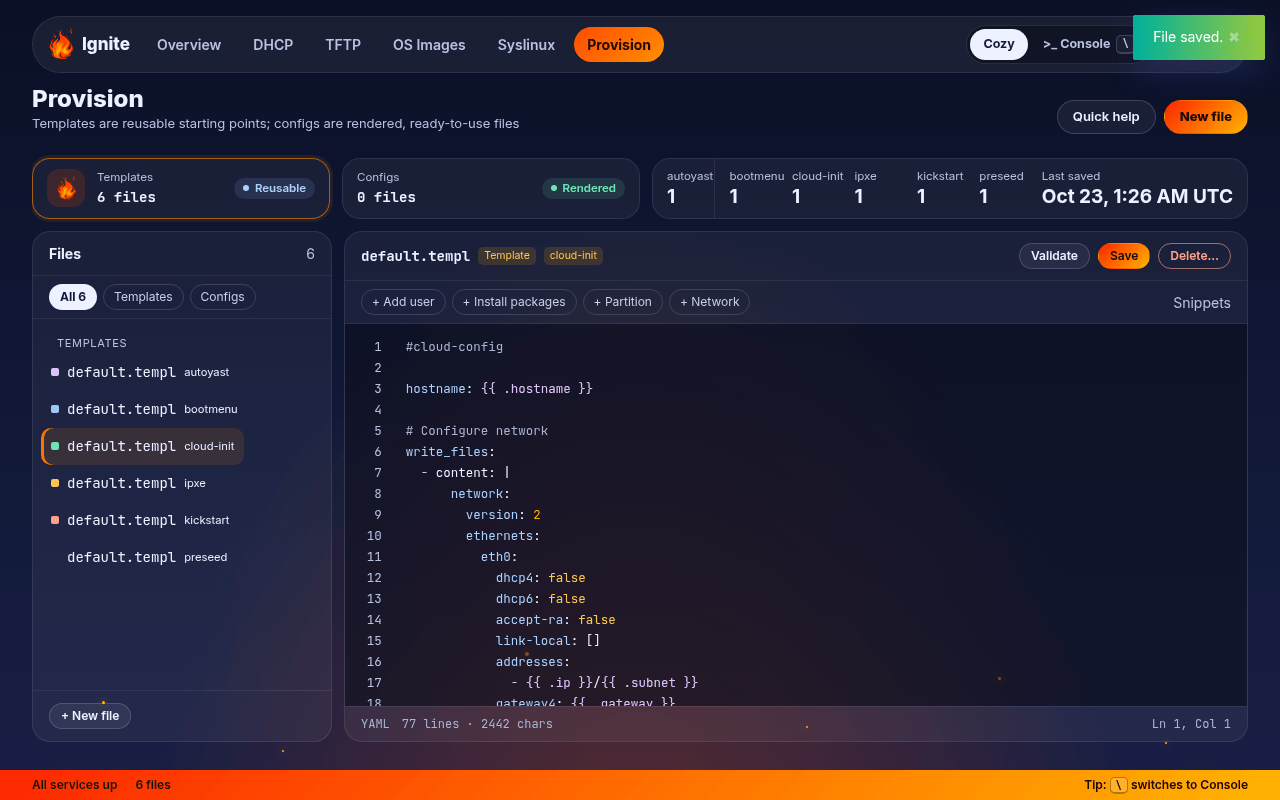
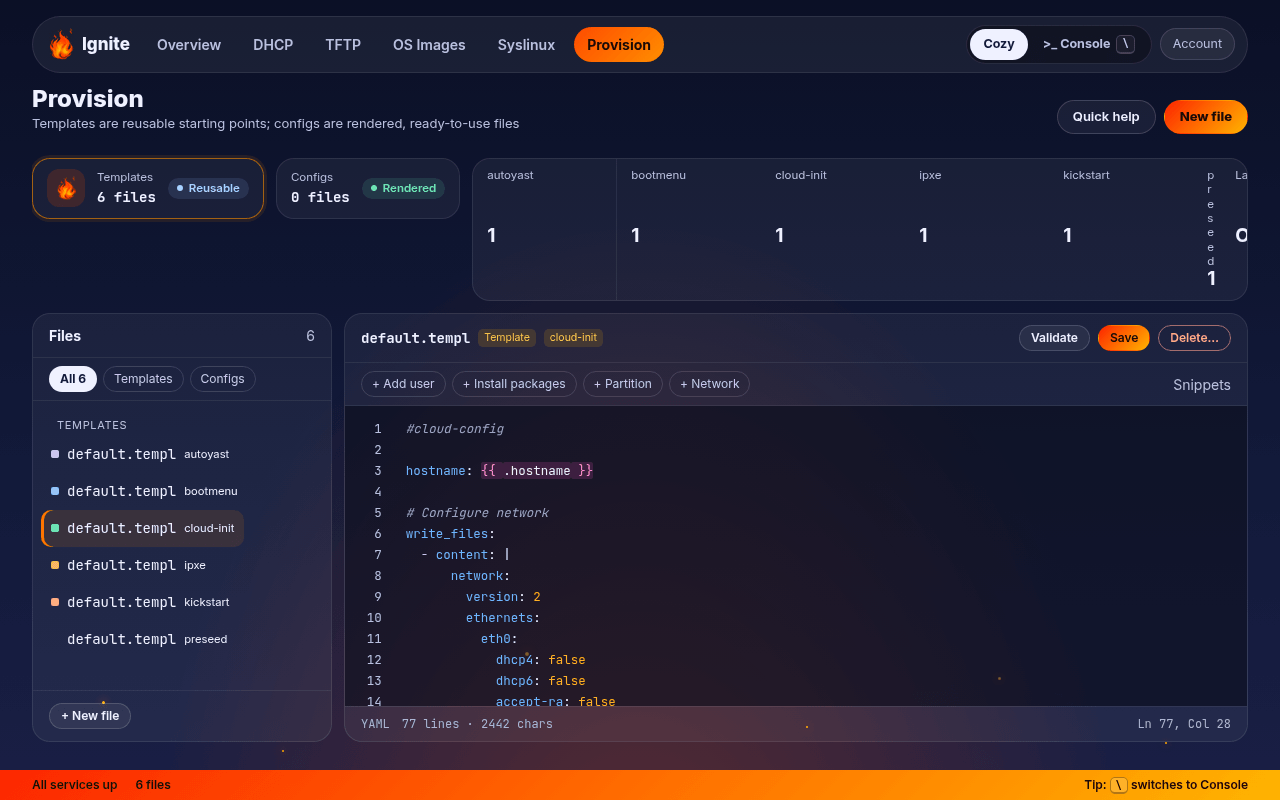
Make provision highlighting and the category strip readable.
Saturate each token class in the theme hues, italicize comments, and put Go template delimiters and fields on a magenta chip. Let the provision counts wrap so Console labels no longer collide.

diff --git a/public/http/js/editor.js b/public/http/js/editor.js
@@ -1,7 +1,7 @@
-"use strict";var igniteEditor=(()=>{var T=Object.defineProperty;var C=Object.getOwnPropertyDescriptor;var O=Object.getOwnPropertyNames;var P=Object.prototype.hasOwnProperty;var K=(e,t)=>{for(var s in t)T(e,s,{get:t[s],enumerable:!0})},H=(e,t,s,r)=>{if(t&&typeof t=="object"||typeof t=="function")for(let n of O(t))!P.call(e,n)&&n!==s&&T(e,n,{get:()=>t[n],enumerable:!(r=C(t,n))||r.enumerable});return e};var Z=e=>H(T({},"__esModule",{value:!0}),e);var ne={};K(ne,{detectLanguage:()=>b,indentText:()=>E,languageLabel:()=>y,renderTokens:()=>A,tokenize:()=>x});var I=/\{\{-?[\s\S]*?-?\}\}/g,B=[{source:"#[^\\n]*",flags:"y",cls:"tok-comment"},{source:`"(?:\\\\.|[^"\\\\\\n])*"|'(?:\\\\.|[^'\\\\\\n])*'`,flags:"y",cls:"tok-string"},{source:"^[ \\t]*[A-Za-z_][\\w.-]*(?=\\s*:)",flags:"ym",cls:"tok-key"},{source:"\\b(?:true|false|yes|no|null|on|off)\\b",flags:"y",cls:"tok-keyword"},{source:"(?<![\\w.])\\d+(?:\\.\\d+)?(?![\\w.])",flags:"y",cls:"tok-number"},{source:"^[ \\t]*-(?=\\s)",flags:"ym",cls:"tok-punct"}],$=[{source:"#[^\\n]*",flags:"y",cls:"tok-comment"},{source:`"(?:\\\\.|[^"\\\\\\n])*"|'(?:\\\\.|[^'\\\\\\n])*'`,flags:"y",cls:"tok-string"},{source:"^%(?:packages|post|pre|end|onerror|addon|anaconda)\\b[^\\n]*",flags:"ym",cls:"tok-section"},{source:"--[A-Za-z0-9-]+",flags:"y",cls:"tok-key"},{source:"\\b(?:auth|authconfig|autopart|bootloader|clearpart|cmdline|device|firewall|firstboot|graphical|group|halt|ignoredisk|install|keyboard|lang|logvol|network|part|poweroff|raid|reboot|repo|rootpw|selinux|services|shutdown|skipx|sshkey|text|timezone|upgrade|url|user|volgroup|xconfig|zerombr)\\b",flags:"y",cls:"tok-keyword"},{source:"(?<![\\w.])\\d+(?:\\.\\d+)?(?![\\w.])",flags:"y",cls:"tok-number"}],_=[{source:"\\$\\{[^}]+\\}|\\$[A-Za-z_]\\w*",flags:"y",cls:"tok-var"},{source:"^#!.*",flags:"ym",cls:"tok-keyword"},{source:"#[^\\n]*",flags:"y",cls:"tok-comment"},{source:`"(?:\\\\.|[^"\\\\\\n])*"|'(?:\\\\.|[^'\\\\\\n])*'`,flags:"y",cls:"tok-string"},{source:"\\b(?:case|cd|do|done|echo|elif|else|esac|exit|export|fi|for|function|if|local|read|return|set|source|then|trap|while)\\b",flags:"y",cls:"tok-keyword"},{source:"(?<![\\w.])\\d+(?:\\.\\d+)?(?![\\w.])",flags:"y",cls:"tok-number"}],j=[{source:"#[^\\n]*",flags:"y",cls:"tok-comment"},{source:`"(?:\\\\.|[^"\\\\\\n])*"|'(?:\\\\.|[^'\\\\\\n])*'`,flags:"y",cls:"tok-string"},{source:"\\bd-i\\b",flags:"y",cls:"tok-keyword"},{source:"\\b[a-z0-9]+(?:/[A-Za-z0-9_.-]+)+",flags:"y",cls:"tok-key"},{source:"\\b(?:string|boolean|select|multiselect|note|password|error)\\b",flags:"y",cls:"tok-key"},{source:"\\b(?:true|false)\\b",flags:"y",cls:"tok-keyword"},{source:"(?<![\\w.])\\d+(?:\\.\\d+)?(?![\\w.])",flags:"y",cls:"tok-number"}],U=[{source:"\\$\\{[^}]+\\}",flags:"y",cls:"tok-var"},{source:"^#!ipxe\\b",flags:"ym",cls:"tok-keyword"},{source:"#[^\\n]*",flags:"y",cls:"tok-comment"},{source:"^:[A-Za-z_][\\w-]*",flags:"ym",cls:"tok-section"},{source:`"(?:\\\\.|[^"\\\\\\n])*"|'(?:\\\\.|[^'\\\\\\n])*'`,flags:"y",cls:"tok-string"},{source:"\\b(?:boot|chain|choose|console|dhcp|echo|exit|goto|ifopen|imgfetch|imgfree|initrd|iseq|isset|item|kernel|menu|prompt|set|shell|show|sleep)\\b",flags:"y",cls:"tok-keyword"},{source:"(?<![\\w.])\\d+(?:\\.\\d+)?(?![\\w.])",flags:"y",cls:"tok-number"}],X=[{source:"#[^\\n]*",flags:"y",cls:"tok-comment"},{source:`"(?:\\\\.|[^"\\\\\\n])*"|'(?:\\\\.|[^'\\\\\\n])*'`,flags:"y",cls:"tok-string"},{source:"^[ \\t]*\\[[^\\]\\n]+\\]",flags:"ym",cls:"tok-section"},{source:"\\b(?:APPEND|DEFAULT|DISPLAY|IMPLICIT|INCLUDE|KERNEL|LABEL|LOCALBOOT|MENU|PROMPT|SAY|SERIAL|TIMEOUT|UI)\\b",flags:"yi",cls:"tok-keyword"},{source:"^[ \\t]*[A-Za-z_][\\w.-]*(?=\\s*=)",flags:"ym",cls:"tok-key"},{source:"(?<![\\w.])\\d+(?:\\.\\d+)?(?![\\w.])",flags:"y",cls:"tok-number"}],q=[{source:"<!--[\\s\\S]*?-->",flags:"y",cls:"tok-comment"},{source:"<!DOCTYPE\\b[^>]*>",flags:"yi",cls:"tok-keyword"},{source:"</?[A-Za-z_][\\w:.-]*",flags:"y",cls:"tok-tag"},{source:"/?\\s*>",flags:"y",cls:"tok-punct"},{source:"[A-Za-z_:][\\w:.-]*(?=\\s*=)",flags:"y",cls:"tok-key"},{source:`"(?:\\\\.|[^"\\\\])*"|'(?:\\\\.|[^'\\\\])*'`,flags:"y",cls:"tok-string"}],R={yaml:B,kickstart:$,shell:_,preseed:j,ipxe:U,pxe:X,xml:q,text:[]},N={yaml:"YAML",kickstart:"Kickstart",shell:"Shell",preseed:"Preseed",ipxe:"iPXE",pxe:"PXE",xml:"XML",text:"Text"};function y(e){return N[e]||N.text}function Y(e){return e.map(t=>({re:new RegExp(t.source,t.flags),cls:t.cls}))}var S={};for(let e of Object.keys(R))S[e]=Y(R[e]);function F(e){let t=[];I.lastIndex=0;let s;for(;(s=I.exec(e))&&s[0].length!==0;)t.push({start:s.index,end:s.index+s[0].length});return t}function V(e,t){if(!t.length)return e;let s="",r=0;for(let n of t)s+=e.slice(r,n.start),s+=" ".repeat(n.end-n.start),r=n.end;return s+e.slice(r)}function v(e,t){let s=S[t]||S.text,r=[],n=0;for(;n<e.length;){let a=null;for(let o of s){o.re.lastIndex=n;let l=o.re.exec(e);if(l&&l.index===n&&l[0].length>0){a={text:l[0],cls:o.cls};break}}if(!a){let o=r[r.length-1],l=e.charAt(n);o&&!o.cls?o.text+=l:r.push({text:l,cls:""}),n++;continue}r.push(a),n+=a.text.length}return r}function W(e){let t=[],s=!1,r=0;for(;r<e.length;){let n=e.indexOf(`
-`,r),a=n===-1?e.length:n+1,o=e.slice(r,a),l=o.endsWith(`
-`)?o.slice(0,-1):o,i=s?"shell":"kickstart";/^%end\b/.test(l)||/^%(?:packages|addon|anaconda)\b/.test(l)?(i="kickstart",s=!1):/^%(?:post|pre|onerror)\b/.test(l)&&(i="kickstart",s=!0);let u=t[t.length-1];u&&u.language===i?u.text+=o:t.push({language:i,text:o}),r=a}return t}function G(e,t){if(t!=="kickstart")return v(e,t);let s=[];for(let r of W(e))s.push(...v(r.text,r.language));return s}function J(e,t,s){let r=[],n=(o,l)=>{if(!o)return;let i=r[r.length-1];i&&i.cls===l?i.text+=o:r.push({text:o,cls:l})},a=0;for(let o of t){let l=0;for(;l<o.text.length;){let i=a+l,u=s.find(f=>i>=f.start&&i<f.end);if(u){n(e.slice(u.start,u.end),"tok-template"),l+=u.end-i;continue}let d=o.text.length;for(let f of s)f.start>i&&f.start<a+o.text.length&&(d=Math.min(d,f.start-a));n(e.slice(i,a+d),o.cls),l=d}a+=o.text.length}return r}function x(e,t){let s=String(e!=null?e:""),r=R[t]?t:"text",n=F(s),a=V(s,n);return J(s,G(a,r),n)}function Q(e){let t=e.split(/[\\/]/).pop()||"",s=t.lastIndexOf(".");return s>=0?t.slice(s).toLowerCase():""}function m(e,t){return t.some(s=>e.includes(s))}function L(e){return/^#version=RHEL/m.test(e)||/^%(?:packages|post|pre|end|onerror)\b/m.test(e)||/^(?:autopart|bootloader|clearpart|rootpw|part)\b/m.test(e)}function D(e){return/^(?:default|prompt|timeout|label|kernel|append|menu)\b/im.test(e)}function b(e="",t="",s="",r=""){let n=String(e||""),a=String(t||""),o=`${n} ${r}`.toLowerCase(),l=Q(n),i=String(s||"").toLowerCase();if(m(o,["cloud-init"]))return"yaml";if(m(o,["kickstart"]))return"kickstart";if(m(o,["preseed"]))return"preseed";if(m(o,["ipxe"]))return"ipxe";if(m(o,["autoyast","yast"]))return"xml";if(m(o,["bootmenu","pxelinux"]))return"pxe";if(l===".yaml"||l===".yml")return"yaml";if(l===".ks")return"kickstart";if(l===".ipxe")return"ipxe";if(l===".xml")return"xml";if(l===".sh"||l===".bash")return"shell";if(l===".cfg"||l===".conf")return D(a)&&!L(a)?"pxe":"kickstart";if(i==="yaml"||i==="yml")return"yaml";if(i==="kickstart"||i==="ks")return"kickstart";if(i==="preseed")return"preseed";if(i==="ipxe")return"ipxe";if(i==="shell"||i==="sh"||i==="bash")return"shell";if(i==="xml")return"xml";if(i==="pxe")return"pxe";let u=a.slice(0,800);return/^#!ipxe/m.test(u)?"ipxe":/^#cloud-config/m.test(u)?"yaml":L(u)?"kickstart":/^d-i\s/m.test(u)?"preseed":/^#!/.test(u)?"shell":/^\s*</.test(u)&&/<\/?[A-Za-z]/.test(u)?"xml":D(u)?"pxe":i==="ini"||i==="cfg"||i==="conf"?L(a)?"kickstart":"pxe":"text"}function ee(e){if(e.startsWith("  "))return{line:e.slice(2),removed:2};if(e.startsWith("	"))return{line:e.slice(1),removed:1};let t=/^ +/.exec(e);if(t){let s=Math.min(2,t[0].length);return{line:e.slice(s),removed:s}}return{line:e,removed:0}}function E(e,t,s,r){let n=Math.min(t,s),a=Math.max(t,s);if(!r&&n===a)return{value:e.slice(0,n)+"  "+e.slice(n),start:n+2,end:n+2};let o=e.lastIndexOf(`
-`,Math.max(0,n-1))+1,l=e.indexOf(`
-`,a),i=l===-1?e.length:l,u=e.slice(o,i).split(`
-`),d=o,f=n,h=u.map(c=>{let g=d;if(d+=c.length+1,!r)return g<=n&&(f+=2),"  "+c;let p=ee(c);return g<=n&&(f-=Math.min(p.removed,Math.max(0,n-g))),p.line}).join(`
-`),k=e.slice(0,o)+h+e.slice(i);if(n===a){let c=Math.max(o,Math.min(f,o+h.length));return{value:k,start:c,end:c}}return{value:k,start:o,end:o+h.length}}function A(e,t,s){let r=e.createDocumentFragment();for(let n of s){if(!n.cls){r.appendChild(e.createTextNode(n.text));continue}let a=e.createElement("span");a.className=n.cls,a.textContent=n.text,r.appendChild(a)}t.replaceChildren(r)}function te(e,t){let s=Object.getOwnPropertyDescriptor(HTMLTextAreaElement.prototype,"value");!s||!s.get||!s.set||Object.defineProperty(e,"value",{configurable:!0,enumerable:!0,get(){return s.get.call(this)},set(r){s.set.call(this,r),t()}})}function z(e){var k;if(!e)return;let t=e.getElementById("editor-textarea");if(!(t instanceof HTMLTextAreaElement)||t.dataset.editorMounted==="1")return;t.dataset.editorMounted="1";let s=t.parentElement;if(!s)return;let r=s.querySelector(".editor-highlight");r||(r=e.createElement("pre"),r.className="editor-highlight",r.setAttribute("aria-hidden","true"),r.appendChild(e.createElement("code")),s.insertBefore(r,t));let n=r.querySelector("code");if(!n)return;let a=e.getElementById("code-edit"),o=!1,l=0,i=()=>{n.style.transform=`translate(${-t.scrollLeft}px, ${-t.scrollTop}px)`},u=()=>{var M;let c=b(t.dataset.filename||"",t.value,t.dataset.language||"",t.dataset.category||"");A(e,n,x(t.value,c));let g=(M=e.defaultView)==null?void 0:M.getComputedStyle(t);g&&(n.style.width=`${t.clientWidth}px`,n.style.padding=g.padding,n.style.font=g.font,n.style.lineHeight=g.lineHeight,n.style.letterSpacing=g.letterSpacing,n.style.tabSize=g.tabSize),r.dataset.lang=c;let p=e.getElementById("editor-lang");p&&(p.textContent=t.value?y(c):""),i()},d=()=>{let c=e.defaultView;!c||l||(l=c.requestAnimationFrame(()=>{l=0,u()}))};te(t,u),t.addEventListener("input",d),t.addEventListener("ignite-editor-refresh",u),t.addEventListener("scroll",i),t.addEventListener("keydown",c=>{if(c.key==="Escape"){o=!0;return}if(c.key!=="Tab"){c.key!=="Shift"&&c.key!=="Control"&&c.key!=="Alt"&&c.key!=="Meta"&&(o=!1);return}if(o||c.altKey||c.metaKey||c.ctrlKey){o=!1;return}c.preventDefault();let g=E(t.value,t.selectionStart,t.selectionEnd,c.shiftKey);t.value=g.value,t.selectionStart=g.start,t.selectionEnd=g.end,t.dispatchEvent(new Event("input",{bubbles:!0}))});let f=e.defaultView;f==null||f.addEventListener("resize",d);let w=(k=e.fonts)==null?void 0:k.ready;w&&w.then(()=>u()).catch(()=>{}),e.querySelectorAll('link[rel="stylesheet"]').forEach(c=>{(c.getAttribute("href")||"").indexOf("editor.css")!==-1&&c.addEventListener("load",u)}),new MutationObserver(d).observe(e.documentElement,{attributes:!0,attributeFilter:["data-theme"]}),a==null||a.classList.add("hl-on"),u()}z(typeof document=="undefined"?void 0:document);return Z(ne);})();
+"use strict";var igniteEditor=(()=>{var T=Object.defineProperty;var C=Object.getOwnPropertyDescriptor;var O=Object.getOwnPropertyNames;var P=Object.prototype.hasOwnProperty;var K=(e,t)=>{for(var s in t)T(e,s,{get:t[s],enumerable:!0})},Z=(e,t,s,r)=>{if(t&&typeof t=="object"||typeof t=="function")for(let n of O(t))!P.call(e,n)&&n!==s&&T(e,n,{get:()=>t[n],enumerable:!(r=C(t,n))||r.enumerable});return e};var $=e=>Z(T({},"__esModule",{value:!0}),e);var se={};K(se,{detectLanguage:()=>b,indentText:()=>E,languageLabel:()=>y,renderTokens:()=>S,tokenize:()=>x});var v=/\{\{-?[\s\S]*?-?\}\}/g,H=[{source:"#[^\\n]*",flags:"y",cls:"tok-comment"},{source:`"(?:\\\\.|[^"\\\\\\n])*"|'(?:\\\\.|[^'\\\\\\n])*'`,flags:"y",cls:"tok-string"},{source:"(?<=(?:^|\\n)[ \\t]*(?:-[ \\t]+)?)[A-Za-z_][\\w.-]*(?=\\s*:)",flags:"ym",cls:"tok-key"},{source:"\\b(?:true|false|yes|no|null|on|off)\\b",flags:"y",cls:"tok-bool"},{source:"(?<![\\w.])\\d+(?:\\.\\d+)?(?![\\w.])",flags:"y",cls:"tok-number"},{source:"^[ \\t]*-(?=\\s)",flags:"ym",cls:"tok-punct"},{source:"(?<=-[ \\t]+)[^ \\t#\\n][^#\\n]*?(?=[ \\t]*(?:#|$))",flags:"ym",cls:"tok-string"},{source:"(?<=:[ \\t]*)[^ \\t#\\n|>][^#\\n]*?(?=[ \\t]*(?:#|$))",flags:"ym",cls:"tok-string"}],B=[{source:"#[^\\n]*",flags:"y",cls:"tok-comment"},{source:`"(?:\\\\.|[^"\\\\\\n])*"|'(?:\\\\.|[^'\\\\\\n])*'`,flags:"y",cls:"tok-string"},{source:"^%(?:packages|post|pre|end|onerror|addon|anaconda)\\b[^\\n]*",flags:"ym",cls:"tok-section"},{source:"--[A-Za-z0-9-]+",flags:"y",cls:"tok-key"},{source:"\\b(?:auth|authconfig|autopart|bootloader|clearpart|cmdline|device|firewall|firstboot|graphical|group|halt|ignoredisk|install|keyboard|lang|logvol|network|part|poweroff|raid|reboot|repo|rootpw|selinux|services|shutdown|skipx|sshkey|text|timezone|upgrade|url|user|volgroup|xconfig|zerombr)\\b",flags:"y",cls:"tok-keyword"},{source:"(?<![\\w.])\\d+(?:\\.\\d+)?(?![\\w.])",flags:"y",cls:"tok-number"}],_=[{source:"\\$\\{[^}]+\\}|\\$[A-Za-z_]\\w*",flags:"y",cls:"tok-var"},{source:"^#!.*",flags:"ym",cls:"tok-keyword"},{source:"#[^\\n]*",flags:"y",cls:"tok-comment"},{source:`"(?:\\\\.|[^"\\\\\\n])*"|'(?:\\\\.|[^'\\\\\\n])*'`,flags:"y",cls:"tok-string"},{source:"\\b(?:case|cd|do|done|echo|elif|else|esac|exit|export|fi|for|function|if|local|read|return|set|source|then|trap|while)\\b",flags:"y",cls:"tok-keyword"},{source:"(?<![\\w.])\\d+(?:\\.\\d+)?(?![\\w.])",flags:"y",cls:"tok-number"}],j=[{source:"#[^\\n]*",flags:"y",cls:"tok-comment"},{source:`"(?:\\\\.|[^"\\\\\\n])*"|'(?:\\\\.|[^'\\\\\\n])*'`,flags:"y",cls:"tok-string"},{source:"\\bd-i\\b",flags:"y",cls:"tok-keyword"},{source:"\\b[a-z0-9]+(?:/[A-Za-z0-9_.-]+)+",flags:"y",cls:"tok-key"},{source:"\\b(?:string|boolean|select|multiselect|note|password|error)\\b",flags:"y",cls:"tok-key"},{source:"\\b(?:true|false)\\b",flags:"y",cls:"tok-bool"},{source:"(?<![\\w.])\\d+(?:\\.\\d+)?(?![\\w.])",flags:"y",cls:"tok-number"}],U=[{source:"\\$\\{[^}]+\\}",flags:"y",cls:"tok-var"},{source:"^#!ipxe\\b",flags:"ym",cls:"tok-keyword"},{source:"#[^\\n]*",flags:"y",cls:"tok-comment"},{source:"^:[A-Za-z_][\\w-]*",flags:"ym",cls:"tok-section"},{source:`"(?:\\\\.|[^"\\\\\\n])*"|'(?:\\\\.|[^'\\\\\\n])*'`,flags:"y",cls:"tok-string"},{source:"\\b(?:boot|chain|choose|console|dhcp|echo|exit|goto|ifopen|imgfetch|imgfree|initrd|iseq|isset|item|kernel|menu|prompt|set|shell|show|sleep)\\b",flags:"y",cls:"tok-keyword"},{source:"(?<![\\w.])\\d+(?:\\.\\d+)?(?![\\w.])",flags:"y",cls:"tok-number"}],X=[{source:"#[^\\n]*",flags:"y",cls:"tok-comment"},{source:`"(?:\\\\.|[^"\\\\\\n])*"|'(?:\\\\.|[^'\\\\\\n])*'`,flags:"y",cls:"tok-string"},{source:"^[ \\t]*\\[[^\\]\\n]+\\]",flags:"ym",cls:"tok-section"},{source:"\\b(?:APPEND|DEFAULT|DISPLAY|IMPLICIT|INCLUDE|KERNEL|LABEL|LOCALBOOT|MENU|PROMPT|SAY|SERIAL|TIMEOUT|UI)\\b",flags:"yi",cls:"tok-keyword"},{source:"^[ \\t]*[A-Za-z_][\\w.-]*(?=\\s*=)",flags:"ym",cls:"tok-key"},{source:"(?<![\\w.])\\d+(?:\\.\\d+)?(?![\\w.])",flags:"y",cls:"tok-number"}],q=[{source:"<!--[\\s\\S]*?-->",flags:"y",cls:"tok-comment"},{source:"<!DOCTYPE\\b[^>]*>",flags:"yi",cls:"tok-keyword"},{source:"</?[A-Za-z_][\\w:.-]*",flags:"y",cls:"tok-tag"},{source:"/?\\s*>",flags:"y",cls:"tok-punct"},{source:"[A-Za-z_:][\\w:.-]*(?=\\s*=)",flags:"y",cls:"tok-key"},{source:`"(?:\\\\.|[^"\\\\])*"|'(?:\\\\.|[^'\\\\])*'`,flags:"y",cls:"tok-string"}],A={yaml:H,kickstart:B,shell:_,preseed:j,ipxe:U,pxe:X,xml:q,text:[]},I={yaml:"YAML",kickstart:"Kickstart",shell:"Shell",preseed:"Preseed",ipxe:"iPXE",pxe:"PXE",xml:"XML",text:"Text"};function y(e){return I[e]||I.text}function Y(e){return e.map(t=>({re:new RegExp(t.source,t.flags),cls:t.cls}))}var R={};for(let e of Object.keys(A))R[e]=Y(A[e]);function F(e){let t=[];v.lastIndex=0;let s;for(;(s=v.exec(e))&&s[0].length!==0;)t.push({start:s.index,end:s.index+s[0].length});return t}function V(e,t){if(!t.length)return e;let s="",r=0;for(let n of t)s+=e.slice(r,n.start),s+=" ".repeat(n.end-n.start),r=n.end;return s+e.slice(r)}function N(e,t){let s=R[t]||R.text,r=[],n=0;for(;n<e.length;){let l=null;for(let o of s){o.re.lastIndex=n;let i=o.re.exec(e);if(i&&i.index===n&&i[0].length>0){l={text:i[0],cls:o.cls};break}}if(!l){let o=r[r.length-1],i=e.charAt(n);o&&!o.cls?o.text+=i:r.push({text:i,cls:""}),n++;continue}r.push(l),n+=l.text.length}return r}function W(e){let t=[],s=!1,r=0;for(;r<e.length;){let n=e.indexOf(`
+`,r),l=n===-1?e.length:n+1,o=e.slice(r,l),i=o.endsWith(`
+`)?o.slice(0,-1):o,c=s?"shell":"kickstart";/^%end\b/.test(i)||/^%(?:packages|addon|anaconda)\b/.test(i)?(c="kickstart",s=!1):/^%(?:post|pre|onerror)\b/.test(i)&&(c="kickstart",s=!0);let u=t[t.length-1];u&&u.language===c?u.text+=o:t.push({language:c,text:o}),r=l}return t}function G(e,t){if(t!=="kickstart")return N(e,t);let s=[];for(let r of W(e))s.push(...N(r.text,r.language));return s}function J(e,t){let s=/\{\{-?|-?\}\}|\.[A-Za-z_][\w.]*/g,r,n=0;for(;r=s.exec(e);){t(e.slice(n,r.index),"tok-template");let l=r[0];t(l,l.charAt(0)==="."?"tok-template-field":"tok-template"),n=r.index+l.length}t(e.slice(n),"tok-template")}function Q(e,t,s){let r=[],n=(o,i)=>{if(!o)return;let c=r[r.length-1];c&&c.cls===i?c.text+=o:r.push({text:o,cls:i})},l=0;for(let o of t){let i=0;for(;i<o.text.length;){let c=l+i,u=s.find(f=>c>=f.start&&c<f.end);if(u){J(e.slice(u.start,u.end),n),i+=u.end-c;continue}let d=o.text.length;for(let f of s)f.start>c&&f.start<l+o.text.length&&(d=Math.min(d,f.start-l));n(e.slice(c,l+d),o.cls),i=d}l+=o.text.length}return r}function x(e,t){let s=String(e!=null?e:""),r=A[t]?t:"text",n=F(s),l=V(s,n);return Q(s,G(l,r),n)}function ee(e){let t=e.split(/[\\/]/).pop()||"",s=t.lastIndexOf(".");return s>=0?t.slice(s).toLowerCase():""}function m(e,t){return t.some(s=>e.includes(s))}function L(e){return/^#version=RHEL/m.test(e)||/^%(?:packages|post|pre|end|onerror)\b/m.test(e)||/^(?:autopart|bootloader|clearpart|rootpw|part)\b/m.test(e)}function D(e){return/^(?:default|prompt|timeout|label|kernel|append|menu)\b/im.test(e)}function b(e="",t="",s="",r=""){let n=String(e||""),l=String(t||""),o=`${n} ${r}`.toLowerCase(),i=ee(n),c=String(s||"").toLowerCase();if(m(o,["cloud-init"]))return"yaml";if(m(o,["kickstart"]))return"kickstart";if(m(o,["preseed"]))return"preseed";if(m(o,["ipxe"]))return"ipxe";if(m(o,["autoyast","yast"]))return"xml";if(m(o,["bootmenu","pxelinux"]))return"pxe";if(i===".yaml"||i===".yml")return"yaml";if(i===".ks")return"kickstart";if(i===".ipxe")return"ipxe";if(i===".xml")return"xml";if(i===".sh"||i===".bash")return"shell";if(i===".cfg"||i===".conf")return D(l)&&!L(l)?"pxe":"kickstart";if(c==="yaml"||c==="yml")return"yaml";if(c==="kickstart"||c==="ks")return"kickstart";if(c==="preseed")return"preseed";if(c==="ipxe")return"ipxe";if(c==="shell"||c==="sh"||c==="bash")return"shell";if(c==="xml")return"xml";if(c==="pxe")return"pxe";let u=l.slice(0,800);return/^#!ipxe/m.test(u)?"ipxe":/^#cloud-config/m.test(u)?"yaml":L(u)?"kickstart":/^d-i\s/m.test(u)?"preseed":/^#!/.test(u)?"shell":/^\s*</.test(u)&&/<\/?[A-Za-z]/.test(u)?"xml":D(u)?"pxe":c==="ini"||c==="cfg"||c==="conf"?L(l)?"kickstart":"pxe":"text"}function te(e){if(e.startsWith("  "))return{line:e.slice(2),removed:2};if(e.startsWith("	"))return{line:e.slice(1),removed:1};let t=/^ +/.exec(e);if(t){let s=Math.min(2,t[0].length);return{line:e.slice(s),removed:s}}return{line:e,removed:0}}function E(e,t,s,r){let n=Math.min(t,s),l=Math.max(t,s);if(!r&&n===l)return{value:e.slice(0,n)+"  "+e.slice(n),start:n+2,end:n+2};let o=e.lastIndexOf(`
+`,Math.max(0,n-1))+1,i=e.indexOf(`
+`,l),c=i===-1?e.length:i,u=e.slice(o,c).split(`
+`),d=o,f=n,h=u.map(a=>{let g=d;if(d+=a.length+1,!r)return g<=n&&(f+=2),"  "+a;let p=te(a);return g<=n&&(f-=Math.min(p.removed,Math.max(0,n-g))),p.line}).join(`
+`),k=e.slice(0,o)+h+e.slice(c);if(n===l){let a=Math.max(o,Math.min(f,o+h.length));return{value:k,start:a,end:a}}return{value:k,start:o,end:o+h.length}}function S(e,t,s){let r=e.createDocumentFragment();for(let n of s){if(!n.cls){r.appendChild(e.createTextNode(n.text));continue}let l=e.createElement("span");l.className=n.cls,l.textContent=n.text,r.appendChild(l)}t.replaceChildren(r)}function ne(e,t){let s=Object.getOwnPropertyDescriptor(HTMLTextAreaElement.prototype,"value");!s||!s.get||!s.set||Object.defineProperty(e,"value",{configurable:!0,enumerable:!0,get(){return s.get.call(this)},set(r){s.set.call(this,r),t()}})}function z(e){var k;if(!e)return;let t=e.getElementById("editor-textarea");if(!(t instanceof HTMLTextAreaElement)||t.dataset.editorMounted==="1")return;t.dataset.editorMounted="1";let s=t.parentElement;if(!s)return;let r=s.querySelector(".editor-highlight");r||(r=e.createElement("pre"),r.className="editor-highlight",r.setAttribute("aria-hidden","true"),r.appendChild(e.createElement("code")),s.insertBefore(r,t));let n=r.querySelector("code");if(!n)return;let l=e.getElementById("code-edit"),o=!1,i=0,c=()=>{n.style.transform=`translate(${-t.scrollLeft}px, ${-t.scrollTop}px)`},u=()=>{var M;let a=b(t.dataset.filename||"",t.value,t.dataset.language||"",t.dataset.category||"");S(e,n,x(t.value,a));let g=(M=e.defaultView)==null?void 0:M.getComputedStyle(t);g&&(n.style.width=`${t.clientWidth}px`,n.style.padding=g.padding,n.style.font=g.font,n.style.lineHeight=g.lineHeight,n.style.letterSpacing=g.letterSpacing,n.style.tabSize=g.tabSize),r.dataset.lang=a;let p=e.getElementById("editor-lang");p&&(p.textContent=t.value?y(a):""),c()},d=()=>{let a=e.defaultView;!a||i||(i=a.requestAnimationFrame(()=>{i=0,u()}))};ne(t,u),t.addEventListener("input",d),t.addEventListener("ignite-editor-refresh",u),t.addEventListener("scroll",c),t.addEventListener("keydown",a=>{if(a.key==="Escape"){o=!0;return}if(a.key!=="Tab"){a.key!=="Shift"&&a.key!=="Control"&&a.key!=="Alt"&&a.key!=="Meta"&&(o=!1);return}if(o||a.altKey||a.metaKey||a.ctrlKey){o=!1;return}a.preventDefault();let g=E(t.value,t.selectionStart,t.selectionEnd,a.shiftKey);t.value=g.value,t.selectionStart=g.start,t.selectionEnd=g.end,t.dispatchEvent(new Event("input",{bubbles:!0}))});let f=e.defaultView;f==null||f.addEventListener("resize",d);let w=(k=e.fonts)==null?void 0:k.ready;w&&w.then(()=>u()).catch(()=>{}),e.querySelectorAll('link[rel="stylesheet"]').forEach(a=>{(a.getAttribute("href")||"").indexOf("editor.css")!==-1&&a.addEventListener("load",u)}),new MutationObserver(d).observe(e.documentElement,{attributes:!0,attributeFilter:["data-theme"]}),l==null||l.classList.add("hl-on"),u()}z(typeof document=="undefined"?void 0:document);return $(se);})();

diff --git a/public/http/css/editor.css b/public/http/css/editor.css
@@ -1,1 +1,1 @@
-#code-edit.hl-on .editor-highlight{display:block;position:absolute;inset:0;z-index:0;margin:0;padding:0;border:0;overflow:hidden;pointer-events:none;background:transparent;color:var(--text);white-space:pre-wrap;font-family:var(--mono);font-size:12.5px;line-height:21px}#code-edit.hl-on .editor-highlight code{display:block;box-sizing:border-box;margin:0;border:0;background:transparent;color:inherit;font:inherit;line-height:inherit;white-space:pre-wrap;tab-size:4}html[data-theme=console] #code-edit.hl-on .editor-highlight{font-size:12px;line-height:19px}#code-edit.hl-on #editor-textarea{position:relative;z-index:1;height:100%;max-height:100%;overflow:auto;color:transparent;caret-color:var(--text);background:transparent;white-space:pre-wrap;tab-size:4}#code-edit.hl-on #editor-textarea::selection{color:transparent;background:#ff8e0059}#code-edit.hl-on #editor-textarea::placeholder{color:var(--text-muted)}#code-edit .tok-comment{color:var(--text-dim)}#code-edit .tok-keyword{color:var(--warn)}#code-edit .tok-string{color:var(--ok)}#code-edit .tok-number{color:var(--flame-300)}#code-edit .tok-key{color:var(--info)}#code-edit .tok-var{color:var(--idle)}#code-edit .tok-template{color:var(--violet)}#code-edit .tok-section{color:var(--flame-400)}#code-edit .tok-tag{color:var(--danger)}#code-edit .tok-punct{color:var(--neutral)}html[data-theme=console] #code-edit .tok-comment{color:var(--text-muted)}html[data-theme=console] #code-edit .tok-keyword{color:var(--flame-300)}html[data-theme=console] #code-edit .tok-section{color:var(--warn)}html[data-theme=console] #code-edit .tok-template{color:var(--violet)}
+#code-edit.hl-on .editor-highlight{display:block;position:absolute;inset:0;z-index:0;margin:0;padding:0;border:0;overflow:hidden;pointer-events:none;background:transparent;color:var(--text);white-space:pre-wrap;font-family:var(--mono);font-size:12.5px;line-height:21px}#code-edit.hl-on .editor-highlight code{display:block;box-sizing:border-box;margin:0;border:0;background:transparent;color:inherit;font:inherit;line-height:inherit;white-space:pre-wrap;tab-size:4}html[data-theme=console] #code-edit.hl-on .editor-highlight{font-size:12px;line-height:19px}#code-edit.hl-on #editor-textarea{position:relative;z-index:1;height:100%;max-height:100%;overflow:auto;color:transparent;caret-color:var(--text);background:transparent;white-space:pre-wrap;tab-size:4}#code-edit.hl-on #editor-textarea::selection{color:transparent;background:#ff8e0059}#code-edit.hl-on #editor-textarea::placeholder{color:var(--text-muted)}#code-edit{--hl-comment: #9aa6c6;--hl-key: #6eb6ff;--hl-string: #3ddea0;--hl-number: #ffb020;--hl-keyword: #ffd15a;--hl-section: #ff7a33;--hl-template: #ff8ad4;--hl-field: #ffe1f8;--hl-var: #5ce1ff;--hl-tag: #ff8b72;--hl-punct: #c5cdee;--hl-template-bg: rgba(255, 79, 190, .16)}#code-edit .tok-comment{color:var(--hl-comment);font-style:italic}#code-edit .tok-keyword{color:var(--hl-keyword)}#code-edit .tok-string{color:var(--hl-string)}#code-edit .tok-number,#code-edit .tok-bool{color:var(--hl-number)}#code-edit .tok-key{color:var(--hl-key)}#code-edit .tok-var{color:var(--hl-var)}#code-edit .tok-template,#code-edit .tok-template-field{background-color:var(--hl-template-bg);border-radius:2px}#code-edit .tok-template{color:var(--hl-template)}#code-edit .tok-template-field{color:var(--hl-field)}#code-edit .tok-section{color:var(--hl-section)}#code-edit .tok-tag{color:var(--hl-tag)}#code-edit .tok-punct{color:var(--hl-punct)}

diff --git a/public/editor/src/highlight.ts b/public/editor/src/highlight.ts
@@ -19,10 +19,12 @@ const TEMPLATE = /\{\{-?[\s\S]*?-?\}\}/g;
 const YAML: Rule[] = [
   { source: "#[^\\n]*", flags: "y", cls: "tok-comment" },
   { source: "\"(?:\\\\.|[^\"\\\\\\n])*\"|'(?:\\\\.|[^'\\\\\\n])*'", flags: "y", cls: "tok-string" },
-  { source: "^[ \\t]*[A-Za-z_][\\w.-]*(?=\\s*:)", flags: "ym", cls: "tok-key" },
-  { source: "\\b(?:true|false|yes|no|null|on|off)\\b", flags: "y", cls: "tok-keyword" },
+  { source: "(?<=(?:^|\\n)[ \\t]*(?:-[ \\t]+)?)[A-Za-z_][\\w.-]*(?=\\s*:)", flags: "ym", cls: "tok-key" },
+  { source: "\\b(?:true|false|yes|no|null|on|off)\\b", flags: "y", cls: "tok-bool" },
   { source: "(?<![\\w.])\\d+(?:\\.\\d+)?(?![\\w.])", flags: "y", cls: "tok-number" },
   { source: "^[ \\t]*-(?=\\s)", flags: "ym", cls: "tok-punct" },
+  { source: "(?<=-[ \\t]+)[^ \\t#\\n][^#\\n]*?(?=[ \\t]*(?:#|$))", flags: "ym", cls: "tok-string" },
+  { source: "(?<=:[ \\t]*)[^ \\t#\\n|>][^#\\n]*?(?=[ \\t]*(?:#|$))", flags: "ym", cls: "tok-string" },
 ];
 
 const KICKSTART: Rule[] = [
@@ -49,7 +51,7 @@ const PRESEED: Rule[] = [
   { source: "\\bd-i\\b", flags: "y", cls: "tok-keyword" },
   { source: "\\b[a-z0-9]+(?:/[A-Za-z0-9_.-]+)+", flags: "y", cls: "tok-key" },
   { source: "\\b(?:string|boolean|select|multiselect|note|password|error)\\b", flags: "y", cls: "tok-key" },
-  { source: "\\b(?:true|false)\\b", flags: "y", cls: "tok-keyword" },
+  { source: "\\b(?:true|false)\\b", flags: "y", cls: "tok-bool" },
   { source: "(?<![\\w.])\\d+(?:\\.\\d+)?(?![\\w.])", flags: "y", cls: "tok-number" },
 ];
 
@@ -204,6 +206,21 @@ function tokenizeMasked(text: string, language: string): Token[] {
   return tokens;
 }
 
+// emitTemplate keeps {{ }} and the words inside on the template accent, and
+// pulls .Field names onto their own class so the action reads as one chip.
+function emitTemplate(text: string, push: (text: string, cls: string) => void): void {
+  const re = /\{\{-?|-?\}\}|\.[A-Za-z_][\w.]*/g;
+  let match: RegExpExecArray | null;
+  let i = 0;
+  while ((match = re.exec(text))) {
+    push(text.slice(i, match.index), "tok-template");
+    const part = match[0];
+    push(part, part.charAt(0) === "." ? "tok-template-field" : "tok-template");
+    i = match.index + part.length;
+  }
+  push(text.slice(i), "tok-template");
+}
+
 function project(original: string, tokens: Token[], ranges: Range[]): Token[] {
   const out: Token[] = [];
   const push = (text: string, cls: string) => {
@@ -219,7 +236,7 @@ function project(original: string, tokens: Token[], ranges: Range[]): Token[] {
       const abs = i + local;
       const range = ranges.find((item) => abs >= item.start && abs < item.end);
       if (range) {
-        push(original.slice(range.start, range.end), "tok-template");
+        emitTemplate(original.slice(range.start, range.end), push);
         local += range.end - abs;
         continue;
       }

diff --git a/public/editor/src/editor.css b/public/editor/src/editor.css
@@ -60,18 +60,38 @@ html[data-theme="console"] #code-edit.hl-on .editor-highlight {
   color: var(--text-muted);
 }
 
-#code-edit .tok-comment { color: var(--text-dim); }
-#code-edit .tok-keyword { color: var(--warn); }
-#code-edit .tok-string { color: var(--ok); }
-#code-edit .tok-number { color: var(--flame-300); }
-#code-edit .tok-key { color: var(--info); }
-#code-edit .tok-var { color: var(--idle); }
-#code-edit .tok-template { color: var(--violet); }
-#code-edit .tok-section { color: var(--flame-400); }
-#code-edit .tok-tag { color: var(--danger); }
-#code-edit .tok-punct { color: var(--neutral); }
+/* Same hues as the theme tokens, pushed until each class is obvious on the
+   dark editor and at least 4.5:1 against #1a1f45 and the lighter panel mix.
+   Cozy and Console share these colors; both backgrounds are the night ramp. */
+#code-edit {
+  --hl-comment: #9aa6c6; /* --text-dim */
+  --hl-key: #6eb6ff; /* --info */
+  --hl-string: #3ddea0; /* --ok */
+  --hl-number: #ffb020; /* --flame-300, also booleans */
+  --hl-keyword: #ffd15a; /* --warn */
+  --hl-section: #ff7a33; /* --flame-600 */
+  --hl-template: #ff8ad4; /* --violet, the {{ }} delimiters */
+  --hl-field: #ffe1f8; /* --violet, the .Field inside */
+  --hl-var: #5ce1ff; /* --idle */
+  --hl-tag: #ff8b72; /* --danger */
+  --hl-punct: #c5cdee; /* --neutral */
+  --hl-template-bg: rgba(255, 79, 190, 0.16);
+}
 
-html[data-theme="console"] #code-edit .tok-comment { color: var(--text-muted); }
-html[data-theme="console"] #code-edit .tok-keyword { color: var(--flame-300); }
-html[data-theme="console"] #code-edit .tok-section { color: var(--warn); }
-html[data-theme="console"] #code-edit .tok-template { color: var(--violet); }
+#code-edit .tok-comment { color: var(--hl-comment); font-style: italic; }
+#code-edit .tok-keyword { color: var(--hl-keyword); }
+#code-edit .tok-string { color: var(--hl-string); }
+#code-edit .tok-number,
+#code-edit .tok-bool { color: var(--hl-number); }
+#code-edit .tok-key { color: var(--hl-key); }
+#code-edit .tok-var { color: var(--hl-var); }
+#code-edit .tok-template,
+#code-edit .tok-template-field {
+  background-color: var(--hl-template-bg);
+  border-radius: 2px;
+}
+#code-edit .tok-template { color: var(--hl-template); }
+#code-edit .tok-template-field { color: var(--hl-field); }
+#code-edit .tok-section { color: var(--hl-section); }
+#code-edit .tok-tag { color: var(--hl-tag); }
+#code-edit .tok-punct { color: var(--hl-punct); }

diff --git a/public/http/css/includes.css b/public/http/css/includes.css
@@ -804,7 +804,25 @@ html[data-theme="console"] .chip { border-radius: 6px; }
   tab-size: 4;
 }
 .editor-head { flex-wrap: wrap; }
-.prov-top { display: grid; grid-template-columns: minmax(180px, 1fr) minmax(180px, 1fr) minmax(0, 2fr); gap: 12px; margin-top: 12px; }
+.prov-top {
+  display: grid;
+  grid-template-columns: max-content max-content minmax(0, 1fr);
+  gap: 12px;
+  margin-top: 12px;
+  align-items: start;
+}
+.prov-top .stats.strip {
+  grid-template-columns: repeat(auto-fit, minmax(9rem, 1fr));
+}
+.prov-top .stat {
+  min-width: 0;
+  overflow: hidden;
+}
+.prov-top .stat-title {
+  white-space: normal;
+  overflow-wrap: anywhere;
+  line-height: 1.25;
+}
 .os-top { display: grid; grid-template-columns: minmax(180px, 1fr) minmax(180px, 1fr) minmax(0, 2.4fr); gap: 12px; margin-top: 12px; }
 .dl-row {
   display: grid;
